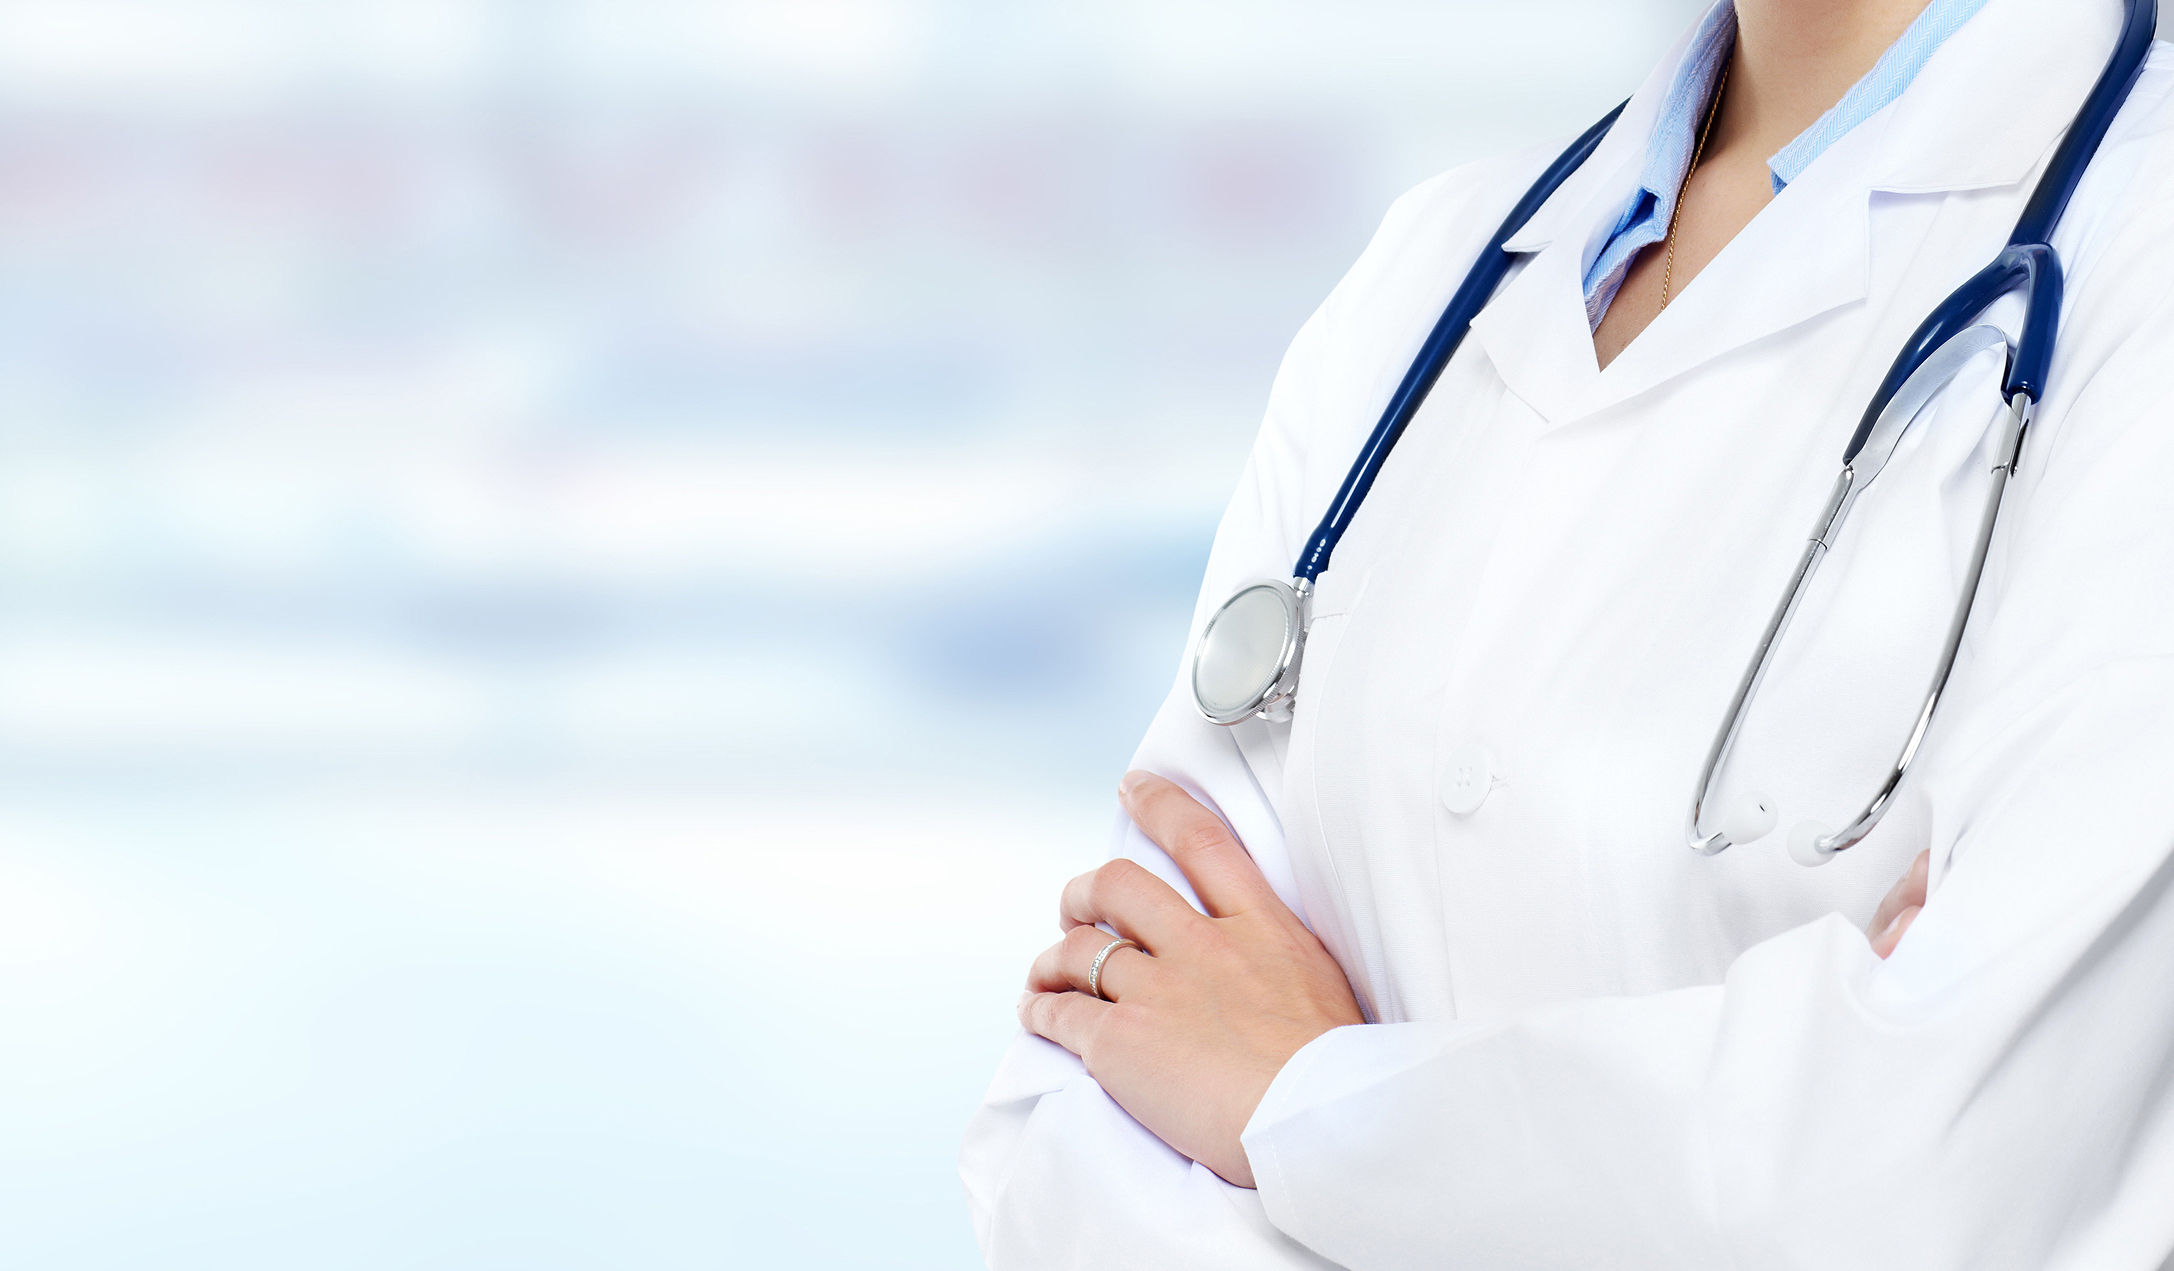
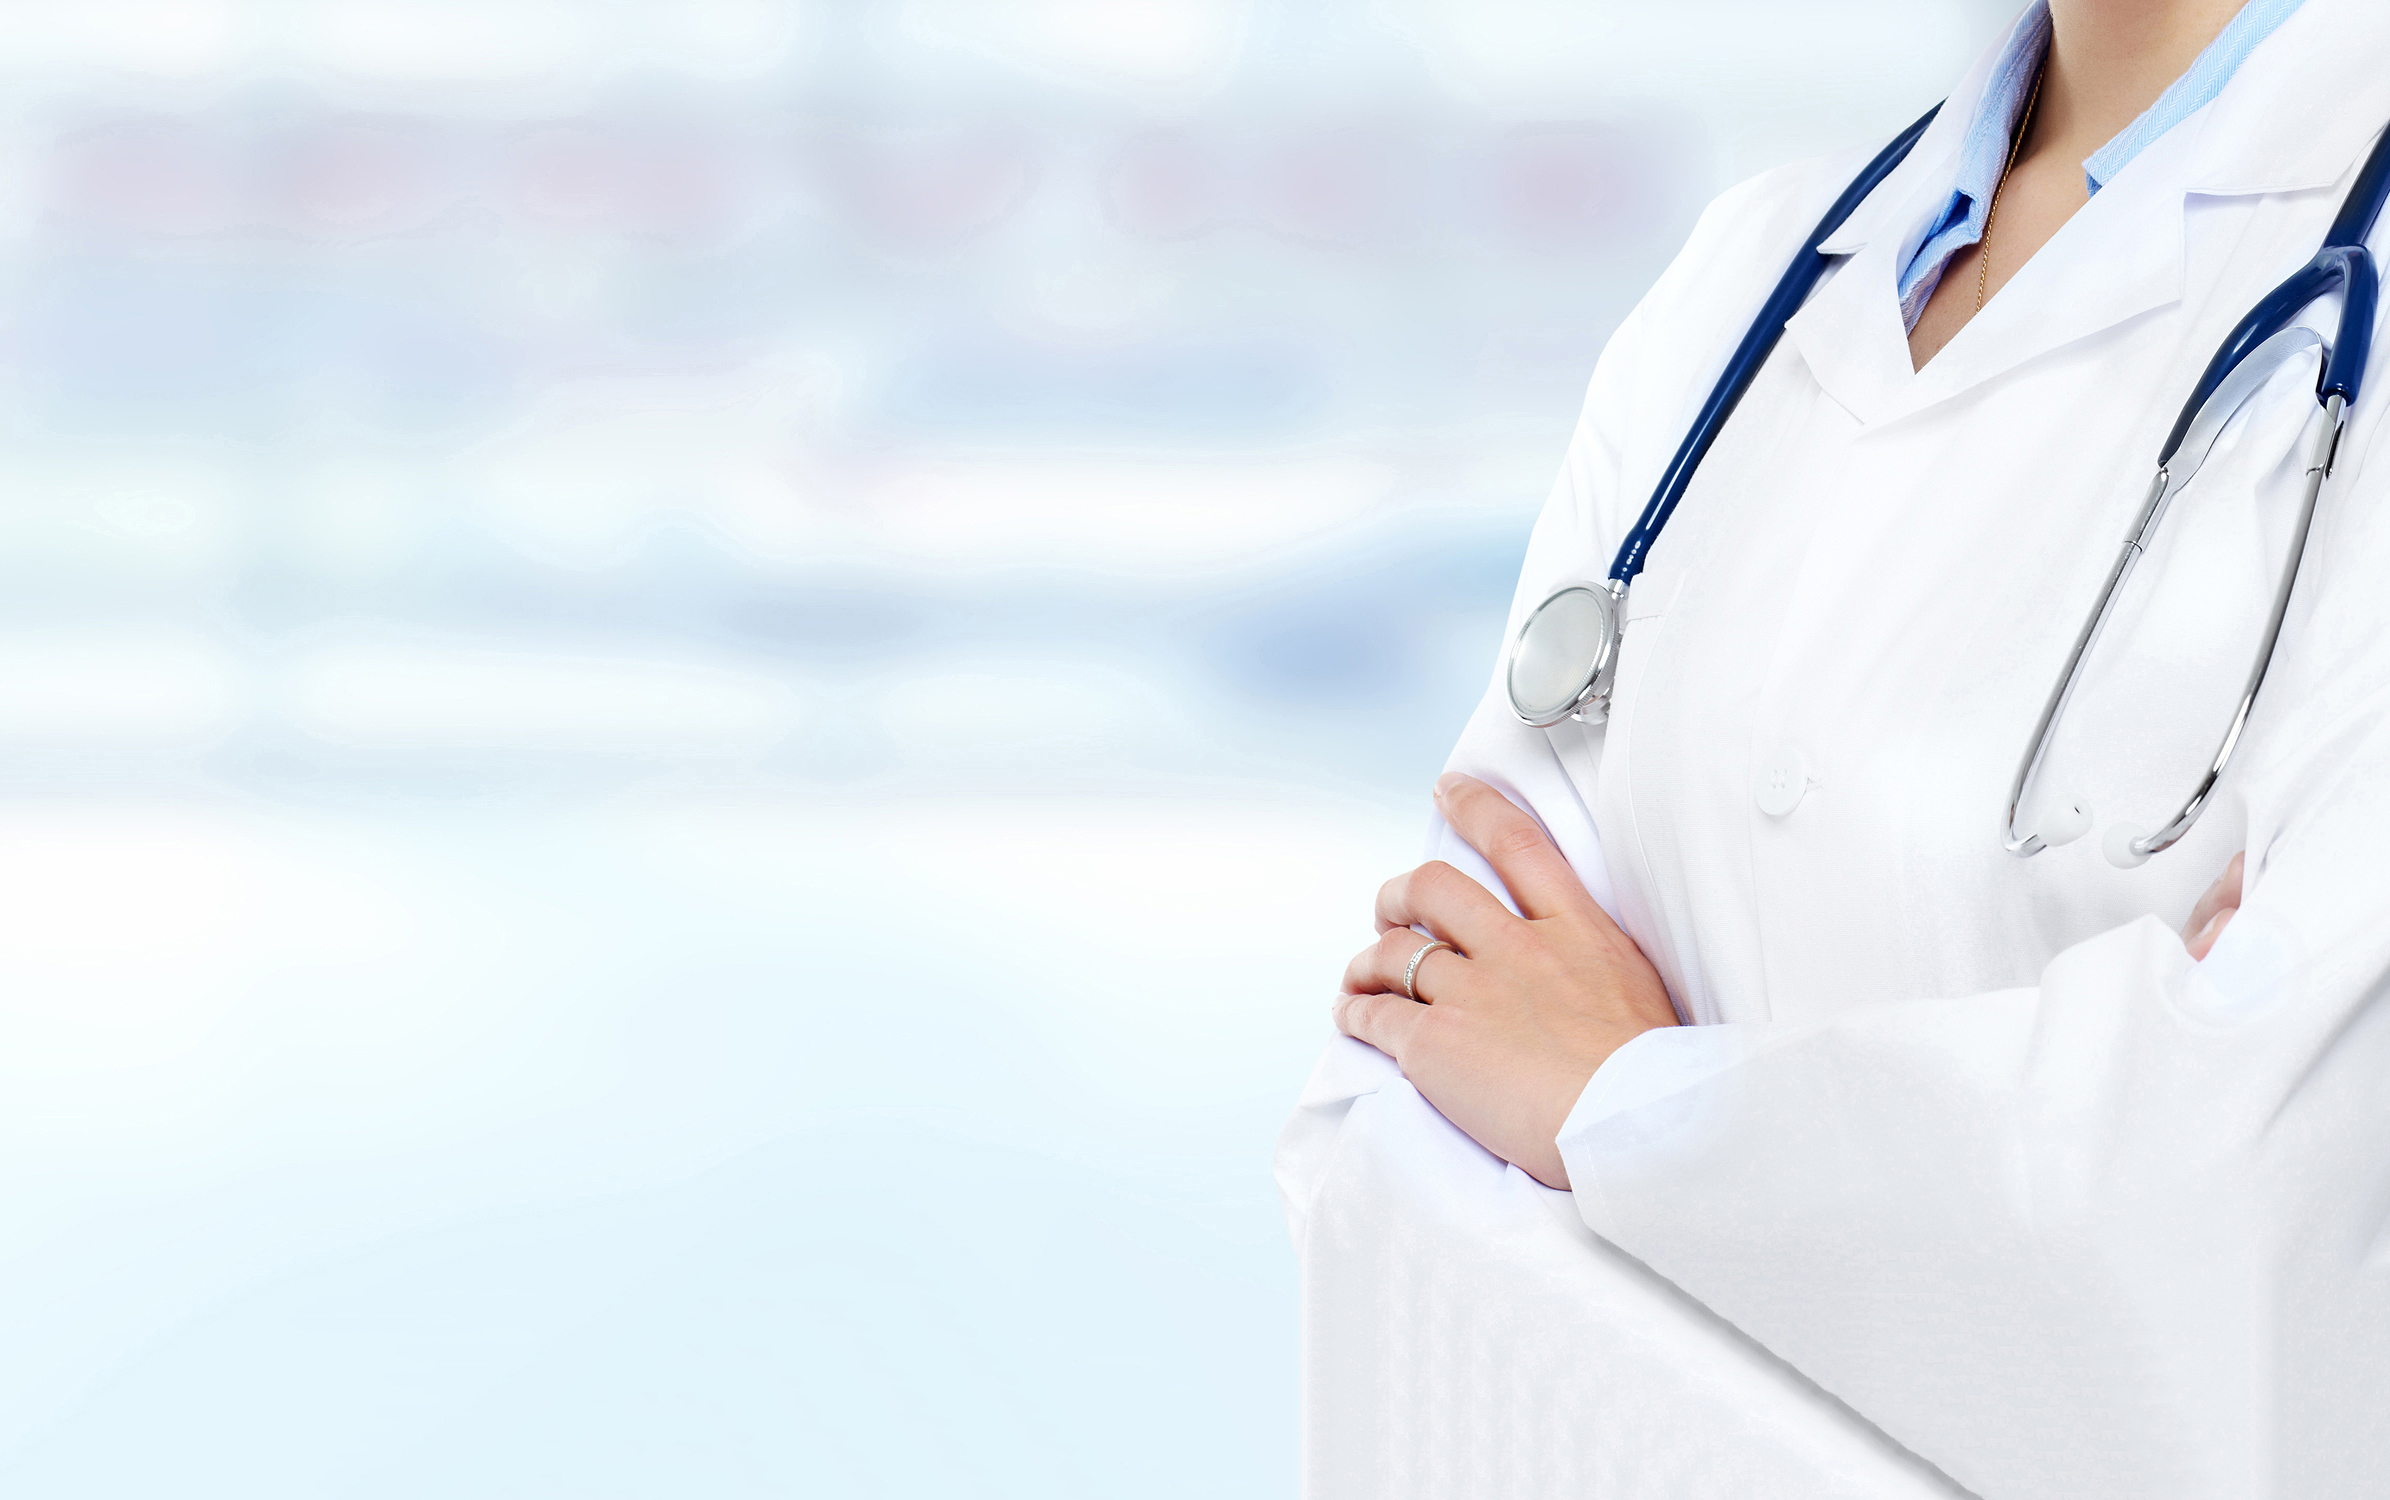
edit background photo and use sass in scss file

diff --git a/index.html b/index.html
@@ -15,7 +15,7 @@
         <div class="form-group">
           <label for="medicalIssue">What is your medical issue?</label>
           <input id="medicalIssue" type="text" class="form-control">
-        </div><br>
+        </div>
         <button type="submit" class="btn btn-info">Find a doctor!</button><br>
       </form><br>
       <div class="result">

diff --git a/scss/styles.scss b/scss/styles.scss
@@ -2,9 +2,17 @@
   display: none;
 }
 
-h5.response {
-  line-height: 1.5em;
-  width: 40%;
+div.response {
+  width: 70%;
+  span.practice {
+    font-weight: 400;
+    font-size: 1em;
+  }
+}
+
+
+button {
+  margin-top: 5px;
 }
 
 form {
